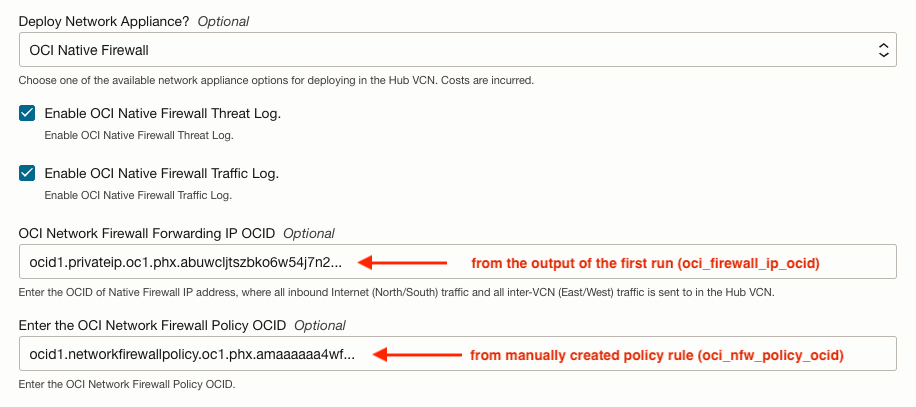
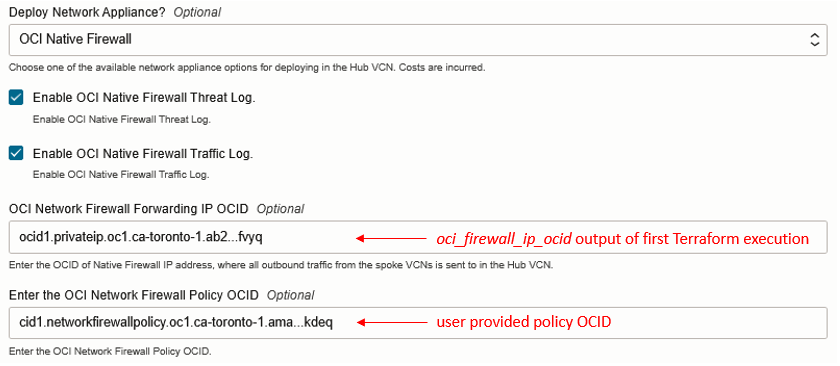
feat: OCI Network Firewall deployment section updated

diff --git a/DEPLOYMENT-GUIDE.md b/DEPLOYMENT-GUIDE.md
@@ -387,22 +387,26 @@ See deployment scenarios under the [templates](./templates/) folder:
 
 OCI Network Firewall is a managed next-generation firewall and Intrusion Detection and Prevention Service (IDS/IPS) that is powered by Palo Alto Networks. It is an OCI cloud-native service, available with Core Landing Zone. The Landing Zone offers simple setup and deployment of the Network Firewall service, which gives you visibility into traffic entering your cloud environment (North-South) via IGW and traffic between subnets (East-West) via DRG routing. The Core Landing Zone implementation deploys a Hub & Spoke network topology with a Network Firewall in the Hub VCN.
 
-To use this service with Landing Zone, there must be two consecutive executions of `terraform apply`. The first pass sets up the Network Firewall instance with a single default policy to *reject all traffic*. The second pass configures the Network Firewall with information of OCIDs collected after the first pass, including a *user created network firewall policy* for your specific use case. In more detail:
+To use this service with Landing Zone, there must be two consecutive executions of *terraform apply*. The first pass sets up the Network Firewall instance with a single default policy to *reject all traffic*. The second pass configures route tables with the Network Firewall and configures the Network Firewall with a user provided policy. In more detail:
 
-- Run the first `terraform apply` (either from RMS or CLI).
-- Collect the Network Firewall forwarding IP OCID from the created instance.
-- Create a new firewall policy for your use case to replace the default `reject all` policy.
-- Edit the RMS stack to add the above information or, if using Terraform CLI, change the associated variable values named below.
-- Run the second `terraform apply` incorporating the Network Firewall forwarding IP address for routing rules, and if supplied, your firewall policy as the new default.
+- Run the first *terraform apply*.
+- Collect the OCID of Network Firewall IP address, available in the *oci_firewall_ip_ocid* output variable. 
+- Using the OCI Console, create a new firewall policy according to your use case requirements to replace the default *reject all traffic* policy. Record the policy OCID, as you will update the Terraform stack with it for the subsequent terraform execution.
+- Still using the OCI Console, associate your new policy with the Network Firewall.
+- Edit the Terraform configuration with Network Firewall OCID and the user provided policy OCID.
+- Run the second *terraform apply*. This execution destroys the default *reject all traffic* policy and persists the user provided policy in the Terraform configuration.
 
 This is where the collected information is used in the RMS stack:
+
 ![nfw_deploy_update.png](images/nfw_deploy_update.png)
-For Terraform CLI deployment, use these variables:
 
-- **oci\_firewall\_ip\_ocid**
-- **oci\_nfw\_policy\_ocid**
 
-If updated in the stack this way, the new user policy is baked into the Network Firewall configuration. Core Landing Zone doesn't manage your use case firewall policy - only the association of it with the Network Firewall.
+For Terraform CLI deployment, enter these variables for the second terraform execution:
+
+- **oci\_firewall\_ip\_ocid**: the OCID of OCI Firewall IP address, available in *oci_firewall_ip_ocid* output variable.
+- **oci\_nfw\_policy\_ocid**: the OCID of the policy associated to the Firewall.
+
+The new policy is baked into the Network Firewall configuration. Note that Core Landing Zone does not manage the user provided policy, only its association with the Network Firewall.
 
 
 #### Landing Zone Third Party Firewall Options
